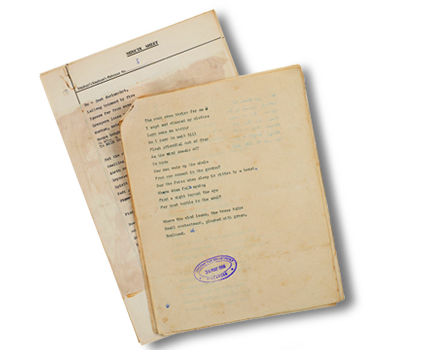
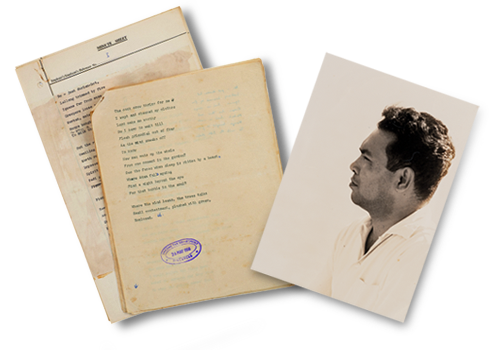
poetry photo

diff --git a/articles-archive/features/_posts/vol-17-iss-1-apr-jun-2021/2021-04-05-poetry.md b/articles-archive/features/_posts/vol-17-iss-1-apr-jun-2021/2021-04-05-poetry.md
@@ -102,12 +102,6 @@ What is arguably the most significant work to prominently feature the local land
 
 Born in Singapore in 1933, Thumboo’s idyllic childhood spent in the foothills of Mandai inspired much of the lush imagery observed in his poem, which was first written in the mid-1950s and revised decades later.[^24]
 
-<div style="background-color: white;">
-<br/>
-<img src="/images/Vol-17-issue-1/poetry/edwin.png">
-Portrait of Edwin Thumboo, c. 1958, during the time when he was working at the Income Tax Department. <i>Collection of the National Library, Singapore. (Call no.: RCLOS 378.12095957 THU-[ET]; Accession no.: B20056083B)</i>.
-</div>
-
 The “Albuquerque” in the poem refers to Afonso de Albuquerque, commander of the Portuguese forces that captured the Sultanate of Melaka in 1511. The version of Albuquerque in the poem, however, is an old warrior who fantasises about a princess living on Mount Ophir.[^25]
 
 “The Cough of Albuquerque” showcases Thumboo’s youthful vision of forging a new Malayan experience with a forceful interplay of imagery, symbolism and myth-making. He evokes scenes of untamed wilderness found in a pre-independence Malayan landscape shrouded in the mists of homegrown folklore, tales of Western explorer-generals and mythic legends, and “attempts to do for Malayan culture what W.B. Yeats did for Ireland”.[^26]
@@ -119,7 +113,7 @@ Thumboo’s poem is arranged in five sections of 50 to 60 lines each and gives f
 <div style="background-color: white;">
 <br/>
 <img src="/images/Vol-17-issue-1/poetry/cough.png">
-In 2006, Edwin Thumboo donated 15 sets of sepia-toned authorial drafts of “The Cough of Albuquerque” to the National Library Board. The typescripts shown here include Thumboo’s handwritten edits. These provide glimpses into the careful and considered pursuit of his craft. <i>Collection of the National Library, Singapore. (Call no.: RCLOS 378.12095957 THU-[ET]; Accession no.: B20056083B)</i>.
+(Above left) In 2006, Edwin Thumboo donated 15 sets of sepia-toned authorial drafts of “The Cough of Albuquerque” to the National Library Board. The typescripts shown here include Thumboo’s handwritten edits. These provide glimpses into the careful and considered pursuit of his craft. <i>Collection of the National Library, Singapore. (Call no.: RCLOS 378.12095957 THU-[ET]; Accession no.: B20056083B)</i>.<br>(Above right) Portrait of Edwin Thumboo, c. 1958, during the time when he was working at the Income Tax Department. <i>Collection of the National Library, Singapore. (Call no.: RCLOS 378.12095957 THU-[ET]; Accession no.: B20056083B)</i>.
 </div>
 
 Alternating between the familiar “durian-hot” environs of the Malayan landscape and the dream-like scenery in mythical places, Thumboo’s keen observations of nature is evident through the “evocation of landscape through a few sharply defined images in nature”.[^28]
